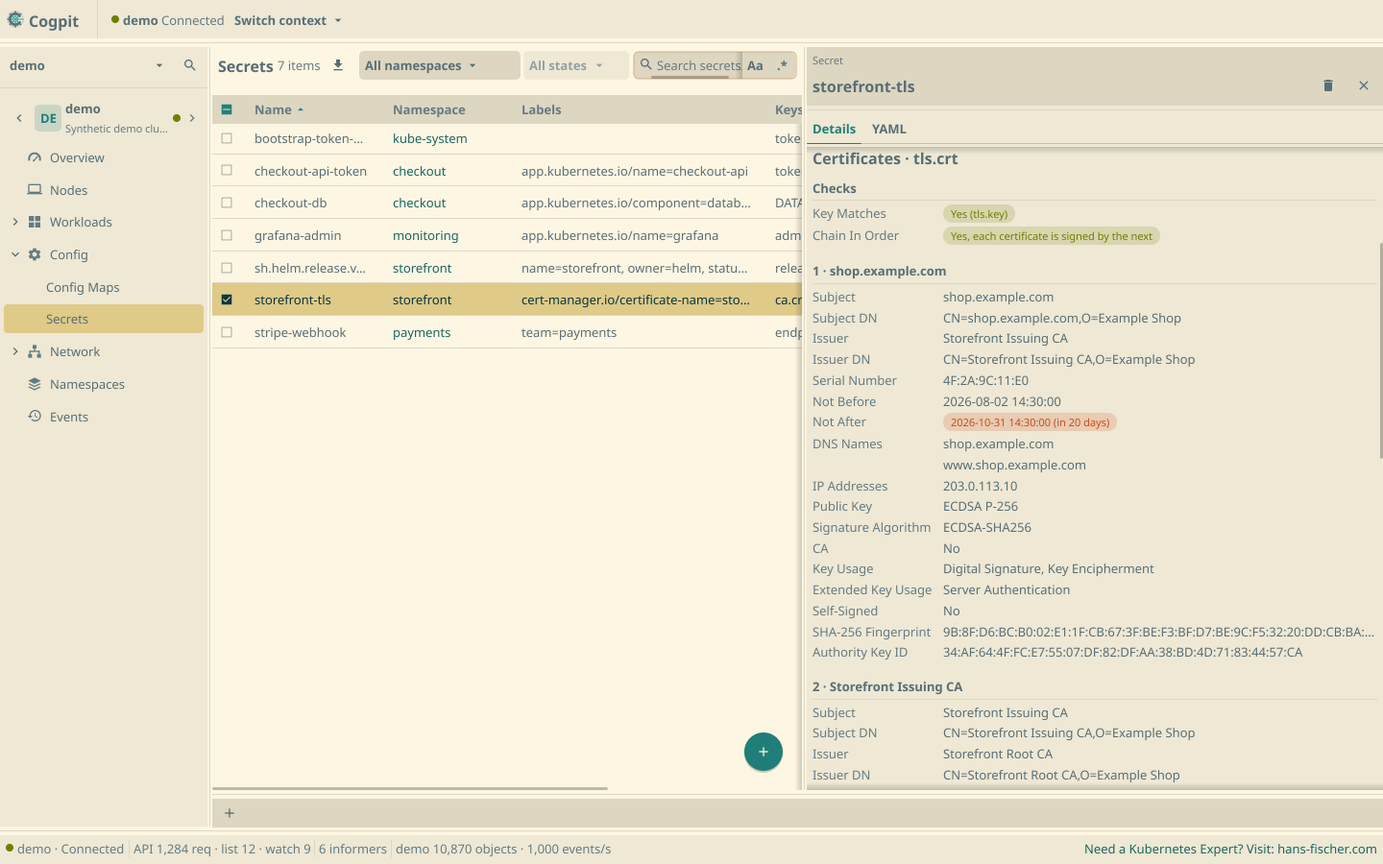
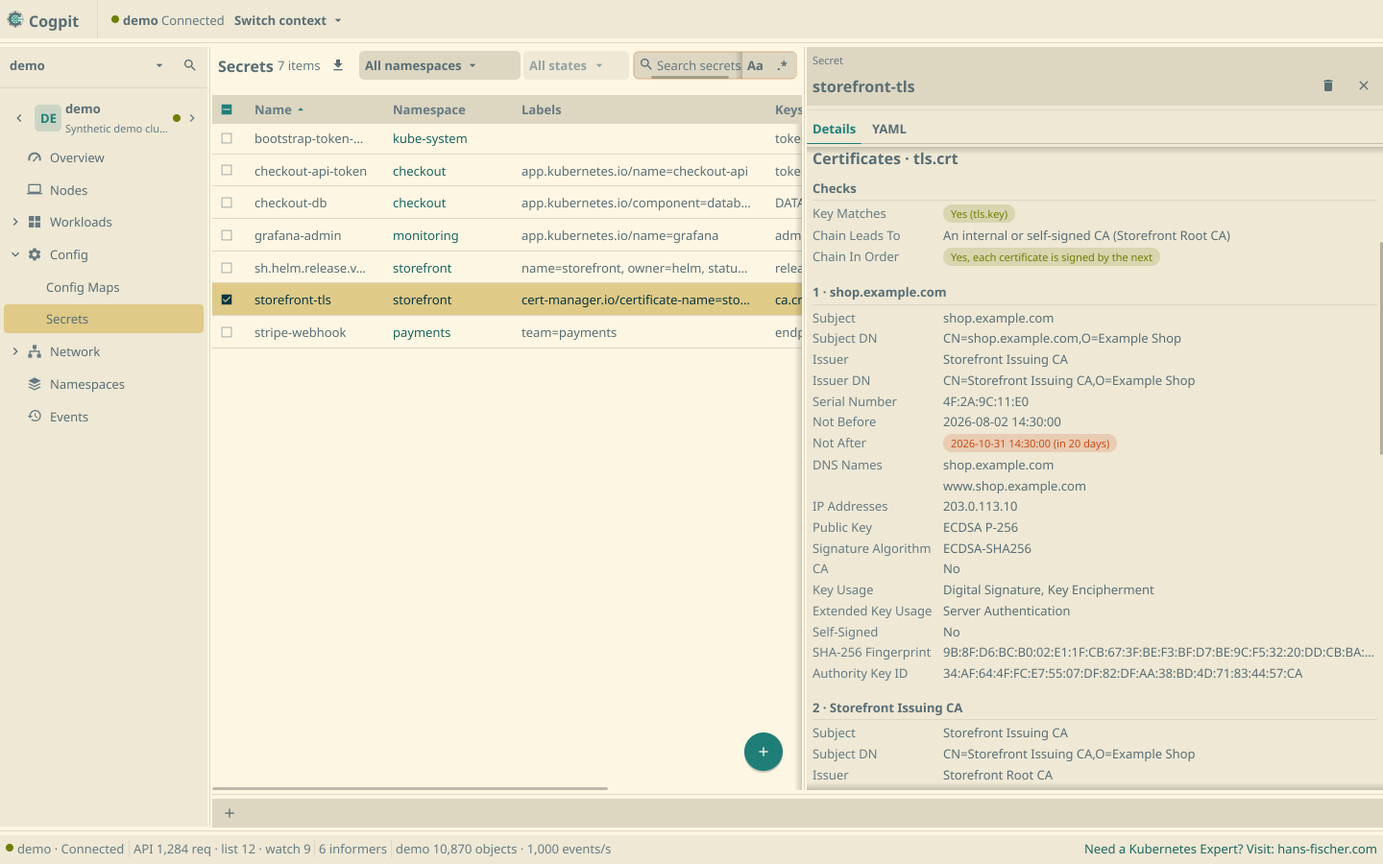
feat(engine): a certificate chain says which kind of CA it leads to (R1)
The owner's requirement of 2026-10-14 evening, built with the lead's design:
a checked chain's Checks section and agents' anchor say "a public CA" (a
root of Mozilla's NSS program, the x509roots bundle embedded in Cogpit),
"a CA this Mac trusts, not a public one" (the computer's trust store), or
"an internal or self-signed CA", with the root's name.

Changed region(s): [[0.5938, 0.3422, 0.9688, 0.9022], [0.5938, 0.2489, 0.875, 0.4044], [0.5938, 0.8711, 0.625, 0.9022]]

diff --git a/internal/model/certanchor.go b/internal/model/certanchor.go
@@ -1,0 +1,105 @@
+package model
+
+import (
+	"crypto/x509"
+	"strings"
+	"sync"
+
+	"golang.org/x/crypto/x509roots/fallback/bundle"
+)
+
+// The kind of certificate authority a Secret's certificate chain leads to (the owner's R1 of
+// 2026-10-14 evening; the lead's design, a night decision for the owner to confirm): a public CA
+// (a root of Mozilla's NSS root program, the bundle golang.org/x/crypto/x509roots ships, embedded
+// in Cogpit and independent of the computer), one this computer trusts (its trust store: a
+// corporate root installed on the Mac counts here, not as public), or an internal or self-signed
+// one. The chain is judged as the value holds it: the first certificate, the value's others as
+// intermediates; at a time inside the first certificate's validity, so that an expired certificate
+// still names its anchor. Pure but for the system pool the caller passes.
+
+// Anchor kinds (CertAnchor.Kind).
+const (
+	AnchorPublic   = "public"   // a root of the public root program
+	AnchorSystem   = "system"   // a root this computer trusts, not a public one
+	AnchorInternal = "internal" // neither: an internal CA or a self-signed certificate
+)
+
+// CertAnchor is where a chain leads: its kind and the root's name (its common name, else its
+// subject).
+type CertAnchor struct {
+	Kind string `json:"kind"`
+	Root string `json:"root,omitempty"`
+}
+
+var (
+	publicRootsOnce sync.Once
+	publicRoots     *x509.CertPool
+)
+
+// PublicRoots is the public root program's pool (NSS, through x509roots), built once.
+func PublicRoots() *x509.CertPool {
+	publicRootsOnce.Do(func() {
+		pool := x509.NewCertPool()
+		for r := range bundle.Roots() {
+			c, err := x509.ParseCertificate(r.Certificate)
+			if err != nil {
+				continue
+			}
+			pool.AddCertWithConstraint(c, r.Constraint)
+		}
+		publicRoots = pool
+	})
+	return publicRoots
+}
+
+// Anchor classifies where the value's chain leads (CertAnchor); ok is false for a value without a
+// valid first certificate. system is the computer's trust store; nil skips that step.
+func (d DecodedValue) Anchor(system *x509.CertPool) (CertAnchor, bool) {
+	if !d.HasLeaf() {
+		return CertAnchor{}, false
+	}
+	leaf := d.parsed[0]
+	inter := x509.NewCertPool()
+	for _, c := range d.parsed[1:] {
+		if c != nil {
+			inter.AddCert(c)
+		}
+	}
+	at := leaf.NotBefore.Add(leaf.NotAfter.Sub(leaf.NotBefore) / 2)
+	verify := func(roots *x509.CertPool) (string, bool) {
+		if roots == nil {
+			return "", false
+		}
+		chains, err := leaf.Verify(x509.VerifyOptions{Roots: roots, Intermediates: inter, CurrentTime: at,
+			KeyUsages: []x509.ExtKeyUsage{x509.ExtKeyUsageAny}})
+		if err != nil || len(chains) == 0 || len(chains[0]) == 0 {
+			return "", false
+		}
+		return certName(chains[0][len(chains[0])-1]), true
+	}
+	if root, ok := verify(PublicRoots()); ok {
+		return CertAnchor{Kind: AnchorPublic, Root: root}, true
+	}
+	if root, ok := verify(system); ok {
+		return CertAnchor{Kind: AnchorSystem, Root: root}, true
+	}
+	top := leaf
+	for _, c := range d.parsed[1:] {
+		if c != nil {
+			top = c
+		}
+	}
+	root := strings.TrimSpace(top.Issuer.CommonName)
+	if root == "" {
+		root = top.Issuer.String()
+	}
+	return CertAnchor{Kind: AnchorInternal, Root: root}, true
+}
+
+// certName is a certificate's common name, else its subject.
+func certName(c *x509.Certificate) string {
+	if n := strings.TrimSpace(c.Subject.CommonName); n != "" {
+		return n
+	}
+	return c.Subject.String()
+}

diff --git a/internal/model/certanchor_test.go b/internal/model/certanchor_test.go
@@ -1,0 +1,56 @@
+package model_test
+
+import (
+	"crypto/x509"
+	"encoding/pem"
+	"testing"
+
+	"golang.org/x/crypto/x509roots/fallback/bundle"
+
+	"github.com/guided-traffic/cogpit/internal/model"
+	"github.com/guided-traffic/cogpit/internal/testkit"
+)
+
+// TestCertAnchor (R1): a chain to a root of the public program is public, whatever the computer
+// trusts; one to a root only the computer's pool holds is the computer's; any other is internal,
+// named by the top certificate's issuer.
+func TestCertAnchor(t *testing.T) {
+	var public *x509.Certificate
+	for r := range bundle.Roots() {
+		if r.Constraint != nil {
+			continue
+		}
+		if c, err := x509.ParseCertificate(r.Certificate); err == nil {
+			public = c
+			break
+		}
+	}
+	if public == nil {
+		t.Fatal("no public root in the bundle")
+	}
+	pemOf := func(der []byte) []byte { return pem.EncodeToMemory(&pem.Block{Type: "CERTIFICATE", Bytes: der}) }
+	a, ok := model.DecodeCertificates(pemOf(public.Raw), 10).Anchor(nil)
+	if !ok || a.Kind != model.AnchorPublic || (a.Root != public.Subject.CommonName && a.Root != public.Subject.String()) {
+		t.Errorf("a public root: %+v, %v", a, ok)
+	}
+
+	ca := testkit.NewCert(t, testkit.CertSpec{CommonName: "Corp Root", CA: true})
+	inter := testkit.NewCert(t, testkit.CertSpec{CommonName: "Corp Issuing", CA: true, Parent: ca})
+	leaf := testkit.NewCert(t, testkit.CertSpec{CommonName: "web.corp", Parent: inter})
+	chain := testkit.Chain(leaf, inter)
+	if a, ok := model.DecodeCertificates(chain, 10).Anchor(nil); !ok || a.Kind != model.AnchorInternal || a.Root != "Corp Root" {
+		t.Errorf("an internal chain: %+v, %v", a, ok)
+	}
+	system := x509.NewCertPool()
+	system.AddCert(ca.Cert)
+	if a, ok := model.DecodeCertificates(chain, 10).Anchor(system); !ok || a.Kind != model.AnchorSystem || a.Root != "Corp Root" {
+		t.Errorf("a chain to a root the computer trusts: %+v, %v", a, ok)
+	}
+	self := testkit.NewCert(t, testkit.CertSpec{CommonName: "self.example"})
+	if a, ok := model.DecodeCertificates(testkit.Chain(self), 10).Anchor(system); !ok || a.Kind != model.AnchorInternal || a.Root != "self.example" {
+		t.Errorf("a self-signed certificate: %+v, %v", a, ok)
+	}
+	if _, ok := model.DecodeCertificates([]byte("no certificate"), 10).Anchor(nil); ok {
+		t.Error("a value without a certificate has an anchor")
+	}
+}

diff --git a/internal/engine/secretcerts_checks.go b/internal/engine/secretcerts_checks.go
@@ -1,8 +1,11 @@
 package engine
 
 import (
+	"crypto/x509"
 	"encoding/base64"
+	"runtime"
 	"strconv"
+	"sync"
 
 	"github.com/guided-traffic/cogpit/internal/model"
 )
@@ -18,7 +21,28 @@ const (
 	certChecksTitle = "Checks"
 	keyMatchItem    = "Key Matches"
 	chainItem       = "Chain In Order"
+	anchorItem      = "Chain Leads To"
 )
+
+var (
+	systemRootsOnce sync.Once
+	systemRootsPool *x509.CertPool
+)
+
+// thisComputer names the computer in the anchor's text.
+func thisComputer() string {
+	if runtime.GOOS == "darwin" {
+		return "this Mac"
+	}
+	return "this computer"
+}
+
+// systemRoots is the computer's trust store, read once (nil where it cannot be read: the anchor
+// then never says "trusted on this computer").
+func systemRoots() *x509.CertPool {
+	systemRootsOnce.Do(func() { systemRootsPool, _ = x509.SystemCertPool() })
+	return systemRootsPool
+}
 
 // certificateChecks sets, on each key with certificates, the private key it pairs with and
 // whether that key matches (pairedKey), and whether its chain is in order. The chain is checked
@@ -43,6 +67,9 @@ func certificateChecks(keys []model.CertificateKey, decoded map[string]model.Dec
 		}
 		leaf := len(ck.Certificates) > 0 && !ck.Certificates[0].Invalid && !ck.Certificates[0].IsCA
 		if ck.PairedKey != "" || leaf {
+			if a, ok := d.Anchor(systemRoots()); ok { // R1: a chain's anchor, not a CA bundle's
+				ck.Anchor = &a
+			}
 			if inOrder, checked, broken := d.ChainInOrder(); checked {
 				ck.ChainInOrder, ck.ChainBreak = &inOrder, broken
 			}
@@ -131,6 +158,18 @@ func certChecksSection(ck model.CertificateKey, group string) (model.DetailSecti
 			it.Value, it.Status = "Yes ("+where+")", model.StatusOK
 		default:
 			it.Value, it.Status = "No ("+where+" holds another key)", model.StatusError
+		}
+		items = append(items, it)
+	}
+	if a := ck.Anchor; a != nil {
+		it := model.DetailItem{Name: anchorItem}
+		switch a.Kind {
+		case model.AnchorPublic:
+			it.Value, it.Status = "A public CA ("+a.Root+")", model.StatusOK
+		case model.AnchorSystem:
+			it.Value, it.Status = "A CA "+thisComputer()+" trusts, not a public one ("+a.Root+")", model.StatusOK
+		default:
+			it.Value = "An internal or self-signed CA (" + a.Root + ")"
 		}
 		items = append(items, it)
 	}

diff --git a/internal/engine/secretcerts_checks_test.go b/internal/engine/secretcerts_checks_test.go
@@ -235,3 +235,21 @@ func TestSecretCombinedPEMKeyCheck(t *testing.T) {
 		t.Errorf("a value without a key got a key check: %+v", checks)
 	}
 }
+
+// A checked chain says where it leads (R1): a chain to an internal CA names it, in the Checks
+// section and for agents.
+func TestSecretChainAnchor(t *testing.T) {
+	ca := testkit.NewCert(t, testkit.CertSpec{CommonName: "Corp Root", CA: true, Key: testkit.Ed25519Key(t)})
+	leaf := testkit.NewCert(t, testkit.CertSpec{CommonName: "web", Parent: ca, Key: testkit.ECDSAKey(t)})
+	m := certDetail(t, secretOf("anchor", tlsSecretType, map[string][]byte{"tls.crt": testkit.Chain(leaf, ca), "tls.key": leaf.KeyPEM(t)}))
+	checks, ok := checkSections(m)["tls.crt"]
+	if !ok {
+		t.Fatalf("no Checks section: %+v", m.Sections)
+	}
+	if it := itemOf(checks, anchorItem); it.Value != "An internal or self-signed CA (Corp Root)" {
+		t.Errorf("anchor %+v", it)
+	}
+	if a := m.Certificates[0].Anchor; a == nil || a.Kind != model.AnchorInternal || a.Root != "Corp Root" {
+		t.Errorf("for agents %+v", a)
+	}
+}

diff --git a/internal/model/certs.go b/internal/model/certs.go
@@ -139,6 +139,9 @@ type CertificateKey struct {
 	// false, the position (from 1) of the first certificate the next one did not sign.
 	ChainInOrder *bool `json:"chainInOrder,omitempty"`
 	ChainBreak   int   `json:"chainBreak,omitempty"`
+	// Anchor is where the chain leads: a public CA, one this computer trusts, or an internal or
+	// self-signed one (R1, certanchor.go); absent for a value without a valid first certificate.
+	Anchor *CertAnchor `json:"anchor,omitempty"`
 }
 
 // HoldsCertificate reports whether a value holds a PEM CERTIFICATE block, without decoding it.

diff --git a/docs/parity/beyond-lens.md b/docs/parity/beyond-lens.md
@@ -7,10 +7,10 @@ targets, decided by the owner; they do not count toward the parity numbers in
 [`target-app-parity.md`](target-app-parity.md), which measure Cogpit against Lens. Method:
 [`README.md`](README.md).
 
-**Summary (measured, 2026-10-14):** 39 of 43 rows exist: 33 done and 6 partial, in MCP control (all 17 done), the built-in agent (2026-10-14 night, its engine side, the window's chat column and the private connection's reads: 9 done, 1 partial: the keychain on Windows and Linux), updates (Sparkle's one-click update and the signed update manifest, partial: no update key yet),
+**Summary (measured, 2026-10-14):** 40 of 43 rows exist: 34 done and 6 partial, in MCP control (all 17 done), the built-in agent (2026-10-14 night, its engine side, the window's chat column and the private connection's reads: 9 done, 1 partial: the keychain on Windows and Linux), updates (Sparkle's one-click update and the signed update manifest, partial: no update key yet),
 cache transparency, crash recovery (the unfinished drain, unsaved editor text), everyday use (the status bar link,
-copying from the lists, the certificates in Secrets and the status filter done, copying from the drawer partial; two rows the
-owner required on 2026-10-14 evening missing: which kind of CA a certificate's chain leads to, and a hotbar tile dragged
+copying from the lists, the certificates in Secrets, which kind of CA their chain leads to (2026-10-14 night) and the status
+filter done, copying from the drawer partial; a row the owner required on 2026-10-14 evening missing: a hotbar tile dragged
 out of the window opening another window) and the command line (`cogpit-cli contexts` done, `get`
 partial). Remaining (estimated): 0–2 h for MCP control
 ([G17](gaps.md#g17-mcp-control), the owner's answer to D-44), 20–40 h for the built-in agent
@@ -101,7 +101,7 @@ The owner's requirements of 2026-10-12, 2026-10-13 and 2026-10-14 that Lens Desk
 | Every value in the detail drawer can be selected, and has a copy icon on hover; an entry of a value with several entries is copied in YAML syntax; a Secret's value only once revealed, and the clipboard cleared after 60 seconds ([D-25](../developer/decisions.md#d-25-copying-values)) | partial (2026-10-12): text lines (names, values, table cells, titles, events), event messages and revealed Secret values select by drag or double click and copy with ⌘C or Ctrl+C; every value, table cell and chip shows a copy icon on hover, a padding after what it draws (2026-10-13, the owner in a real window: a status pill's icon sat at the drawer's right edge), at the value's end with its text shortened with "…" before it when the text leaves no room, before a value's action buttons; entries of labels, annotations and other lists copy as `key: value` or a YAML scalar; every chip owns the room between itself and its icon, so the pointer reaches the icon of a label chip, the last chip of a row and a wrapped one; after a copy the icon is a checkmark for 1.5 s (2026-10-12); a masked Secret value has no icon, a revealed one copies and the clipboard is cleared after 60 seconds if it still holds it, a later copy cancels that, closing the window clears at once; no command. Not drag-selectable: links, chips and status pills (the icon copies them); a selection stays within one line. Decided (owner, 2026-10-14 evening): Forward… sits right after the value as before, the copy icon appears over the value's end on hover; not built. Confirmed (owner, 2026-10-14 evening): links, chips and pills are not drag-selectable, the icon copies them. | [`selection.go`](../../internal/ui/fyneui/selection.go), [`copy.go`](../../internal/ui/fyneui/copy.go); `TestDrawerCopyIconOnHover`, `TestDrawerCopiesEntriesInYAML`, `TestCopyIconReachableOnLabelChips`, `TestCopyIconReachableOnWrappedChips`, `TestCopyIconTurnsIntoACheckmark`, `TestDrawerCopyIconAfterThePill`, `TestDrawerCopyIconAfterTheText`, `TestDrawerCopyIconAfterTheMessage`, `TestDrawerCopyIconInAnActionRow`, `TestYAMLEntry`, `TestDrawerTextIsSelectable`, `TestDrawerLongNamesSelectUnderTheEllipsis`, `TestSecretValueCopyOnlyOnceRevealed`, `TestSecretClipboardKeepsWhatReplacedIt`, `TestSecretTextSelectionCopiesAsASecret`, `TestCopyHasNoCommand` ([H-25](../security/credentials.md#h-25-a-copied-secret-value-reaches-the-clipboard)) |
 | Names in the lists (Pods, Deployments and every other view) are copyable: a list's cells get the drawer's copy icon on hover, at least the Name column's, with the same checkmark after a copy (owner, 2026-10-13, [D-25](../developer/decisions.md#d-25-copying-values)) | done (2026-10-13): in every list (one table for all views), one copy icon, the drawer's, on the cell under the pointer; a click copies the cell's full text (not the text shortened with "…"), turns the icon into the checkmark for 1.5 s and shows the drawer's toast, a plain copy, no command and no audit line. The owner after seeing it (2026-10-13): not on Age, CPU, Memory, Restarts and the like, by a blacklist so that custom resource columns keep it, and right after the text: built, the blacklist one place (`copyColumn`: number, age, until, metric and warning columns, a custom resource's integer, number and date printer columns, and the text ids of state words, booleans, counts and policy words listed in [D-25](../developer/decisions.md#d-25-copying-values), Cogpit's reading of the owner's principle); the icon a padding after the text, at the cell's end when the text leaves no room (then the text is shortened with "…" before it), never over the next column. Cogpit's defaults, not the owner's decision: none on the checkbox, the ⋮, the warning triangle, container squares, empty cells and `-`, `–`, `<none>`; the click neither selects the row, toggles its checkbox nor opens the drawer, a right-click on the icon opens the row's actions menu as elsewhere on the row; a Secret's list holds no values (Name, Namespace, Labels, the keys' names, Type, Age), so no copy from it carries one. Not tried in a real window. Decided (owner, 2026-10-14 evening): the copy icon lies over the cell's end and the text is no longer shortened for it; not built. Confirmed (owner, 2026-10-14 evening), now the owner's decisions: a checkmark and a toast on each copy; the exclusion list as built, for custom resource columns too. | [`tablecopy.go`](../../internal/ui/fyneui/tablecopy.go), [`copy.go`](../../internal/ui/fyneui/copy.go); `TestListCopyIconByColumn`, `TestCopyColumns`, `TestListCopyIconAfterTheText`, `TestListCopyIconOnHover`, `TestListCopyIconPlaceholders`, `TestListCopyIconCopiesTheFullText`, `TestListCopyIconFollowsTheCells`, `TestSecretsListCopiesNoValue`, `TestListCopyIconHasNoCommand`, `TestCopyHasNoCommand`; PNG [hover dark](../../internal/ui/fyneui/testdata/list_copy_hover_dark.png), [hover light](../../internal/ui/fyneui/testdata/list_copy_hover_light.png), [checkmark dark](../../internal/ui/fyneui/testdata/list_copy_done_dark.png), [checkmark light](../../internal/ui/fyneui/testdata/list_copy_done_light.png) |
 | Certificates in Secrets decoded, in the drawer and for agents: for every key that holds a PEM certificate, each certificate's information in separate fields, which an agent reads too (owner, 2026-10-13, [D-30](../developer/decisions.md#d-30-certificates-in-secrets-decoded)) | done (2026-10-13): after the Data section a group "Certificates · <key>" per key (`tls.crt` and `ca.crt` first, any Secret type), one section per certificate in the value's order titled by its common name, each field its own value with the drawer's copy icon: Subject and Subject DN, Issuer and Issuer DN, Serial Number, Not Before, Not After (the time left or "expired N days ago", OK, warning at 30 days or fewer, error when expired or not yet valid), DNS Names, IP Addresses, URIs, E-mail Addresses, Public Key, Signature Algorithm, CA with path length, Key Usage, Extended Key Usage, Self-Signed, SHA-256 Fingerprint, Subject and Authority Key ID; times in the Preferences' zone; `object_get` carries the same fields as `certificates` with RFC 3339 UTC times, `expiresInDays` and `expired`, never the PEM text, a value or a private key. The owner's answers of 2026-10-13, built the same day: agents and the built-in agent's endpoint read the certificates (decided, no longer a gap); DER certificates decoded like PEM ones; a Checks section per group, "Key Matches" (`tls.key` parsed in memory and compared with `tls.crt`'s first certificate: Yes, No as an error, or "Key not readable" with the reason; `keyMatches` for agents) and "Chain In Order" (each certificate signed by the next). Cogpit's defaults, not the owner's decision: which keys, the bounds (1 MiB per value, 16 certificates per key, 64 per Secret, 64 KiB per private key), the thresholds, the layout, which keys pair (`<base>.crt` with `<base>.key` or `<base>-key.pem`, else the one certificate key with the one private key), the chain check and when it runs. Not done: a trust store, revocation, encrypted keys. Nothing from Lens, which has no such section. Decided (owner, 2026-10-14 evening) and built that night: a combined PEM (certificate and key in one value) gets the key check too ("Yes (in this value)"); an encrypted private key in the warning colour, "Encrypted key: TLS and Ingress cannot use it". Which kind of CA the chain leads to: the next row. | [`engine/secretcerts.go`](../../internal/engine/secretcerts.go), [`engine/secretcerts_checks.go`](../../internal/engine/secretcerts_checks.go), [`model/certs.go`](../../internal/model/certs.go), [`model/keymatch.go`](../../internal/model/keymatch.go); `TestParseCertificatesChain`, `TestParseCertificatesOnlyCertificateBlocks`, `TestCertificateEvaluate`, `TestSecretCertificateSections`, `TestSecretCertificateStatusesAndBounds`, `TestSecretCertificateEdges`, `TestObjectGetDecodesCertificatesForAgents`, `TestSecretDrawerShowsCertificates`, `TestMatchPrivateKeyPairs`, `TestMatchPrivateKeyReasons`, `TestChainInOrder`, `TestDecodeDERCertificates`, `TestSecretKeyMatchesCertificate`, `TestSecretCertificatePairingAndChain`, `TestSecretDERCertificates`, on kind `TestKindSecretCertificates`; PNG [dark](../../internal/ui/fyneui/testdata/secret_certs_dark.png), [light](../../internal/ui/fyneui/testdata/secret_certs_light.png) |
-| Certificates in Secrets: whether the chain leads to a public CA, to a CA this Mac trusts (a corporate root counts here) or to an internal or self-signed one, clear at a glance with the root's name, in the drawer and for agents (owner, 2026-10-14 evening) | missing: required (owner, 2026-10-14 evening); not built. The design is settled when it is built; the lead's notes, not decided: "public" chains to a root of a public root program (Mozilla's bundle through `golang.org/x/crypto/x509roots/fallback`, independent of the Mac), "trusted on this Mac" to the system keychain, "internal" to no known root; agents read it as the other fields ([D-30](../developer/decisions.md#d-30-certificates-in-secrets-decoded): certificates are public material) | – |
+| Certificates in Secrets: whether the chain leads to a public CA, to a CA this Mac trusts (a corporate root counts here) or to an internal or self-signed one, clear at a glance with the root's name, in the drawer and for agents (owner, 2026-10-14 evening) | done (2026-10-14 night, the lead's design for the owner to confirm, [D-30](../developer/decisions.md#d-30-certificates-in-secrets-decoded)): the Checks section's "Chain Leads To" for a checked chain (a leaf, or a value with its key): "A public CA (<root>)" for a root of Mozilla's NSS program (the bundle of `golang.org/x/crypto/x509roots`, embedded, the same on every computer), "A CA this Mac trusts, not a public one (<root>)" for the computer's trust store, "An internal or self-signed CA (<the top certificate's issuer>)" otherwise; judged at the middle of the first certificate's validity, so an expired certificate still names its anchor; agents read `anchor` (kind, root). Not tried in a real window | [`model/certanchor.go`](../../internal/model/certanchor.go), [`engine/secretcerts_checks.go`](../../internal/engine/secretcerts_checks.go); `TestCertAnchor`, `TestSecretChainAnchor`; [PNG](../../internal/ui/fyneui/testdata/secret_certs_dark.png) |
 | A status filter in every view: the states the view's rows carry (Status, Not Ready, Degraded, …), several at once, cleared with one click, kept with the tab; a dashboard's state opens its kind's view filtered to it (owner, 2026-10-14, [D-34](../developer/decisions.md#d-34-the-flux-dashboard)) | done (2026-10-14): engine state per tab (`UIState.States`, kept in `workspace.json`), set with `ui.setStatusFilter` or `ui.openView` with `states`, shown in `ui_state`, applied to the view's snapshot like the search (the table, `view_rows`, select all, the CSV export) and by `resources_list`'s `states`; a row's states are its kind's state columns' texts (Status, State, Phase, Sync and Health whole, Conditions word by word; an event's Type, an autoscaler's condition types), qualified by the column in a kind with several (an Argo CD Application's "Sync: OutOfSync", "Health: Degraded", each column a condition of its own), else its status token by name (two decisions for the owner to confirm, D-34); the view offers the states the rows its namespace filter and search keep carry, with counts; in the window beside the namespace filter (on a page beside its table's search), a list of checks with each state's colour and count, a × that clears it; opening another view clears it, as the search; the Flux dashboard's state links and the Argo CD Dashboard's tiles (which used the search box) open the view filtered; 10,000 rows filtered in 2.9–3.7 ms, no request (`BenchmarkSnapshot10kStates`). Decided (owner, 2026-10-14 evening) and built that night: the filter's button in the accent colour while a filter is active. Confirmed (owner, 2026-10-14 evening): the rows' states from the kind's state columns with the tokens as fallback, every named state column matching (any of its states), the filter belonging to its view and tab. | [`model/states.go`](../../internal/model/states.go), [`engine/statusfilter.go`](../../internal/engine/statusfilter.go), [`commands/statusfilter.go`](../../internal/engine/commands/statusfilter.go), [`fyneui/statusfilter.go`](../../internal/ui/fyneui/statusfilter.go); `TestStateMatcher`, `TestKindStates`, `TestStatusFilterSnapshot`, `TestStatusFilterBelongsToTheView`, `TestStatusFilterFluxPage`, `TestArgoTilesNameTheStatusFilter`, `TestWorkspaceKeepsTheStatusFilter`, `TestStatusFilterCommand`, `TestStatusFilterInTheHeader`, `TestStatusFilterOnAPage`, `TestFluxDashboardInTheWindow`, `TestArgoDashboardPanel`; PNGs [list](../../internal/ui/fyneui/testdata/status_filter_menu_dark.png), [filtered Pods](../../internal/ui/fyneui/testdata/status_filter_pods_light.png), [a Flux state clicked](../../internal/ui/fyneui/testdata/flux_state_filtered_dark.png) |
 | A link to the owner at the status bar's left end, opening hans-fischer.com in the browser on a click, a GUI link and not a command ([D-23](../developer/decisions.md#d-23-a-link-to-the-owner-in-the-status-bar)) | done (2026-10-12): "Need a Kubernetes Expert? Visit: hans-fischer.com", shown before connecting and when connected; a click opens `https://hans-fischer.com` and nothing is sent before; when the bar is too narrow the link is shortened and then hidden with its divider, and the status items keep their room | [`bars.go`](../../internal/ui/fyneui/bars.go) (`statusLayout`, `openOwnerLink`); `TestStatusBarOwnerLink`, `TestStatusBarOwnerLinkIsNoCommand`, `TestStatusBarOwnerLinkGivesWayFirst`; [PNG](../../internal/ui/fyneui/testdata/shell_dark.png) (the status bar's left end) |
 | Drag a hotbar tile out of the window and drop it to open that cluster in another Cogpit window (owner, 2026-10-14 evening) | missing: required (owner, 2026-10-14 evening); needs a design (a D-entry) before code: Cogpit is one window today, and a second touches the engine and UI seam (one UI state per window?), the window list, which window agents' UI tools drive, the workspace's persistence and Fyne's start-up stall per window (gate S1's reservation: 0.3–0.56 s, "avoid second windows", [G15](gaps.md#g15-performance-and-api-load-at-scale)); Lens's several windows: [ui parity › Appearance](ui-parity.md#appearance-and-application) | – |

diff --git a/docs/developer/decisions.md b/docs/developer/decisions.md
@@ -85,7 +85,7 @@ window. Nothing of it was built in the round.
 | A25 | #97, H-35 | kubectl's signature checked with sigstore-go, the Rekor transparency-log proof included; a record of its own; to build | [D-50](#d-50-kubectls-signature-check), [H-35](../security/trust-boundaries.md#h-35-kubectls-signature-is-checked-without-sigstores-transparency-log) |
 | A26 | #98, H-36 | The kubectl `PATH` hand-over for bash (`--rcfile` or `PROMPT_COMMAND`) and fish (`conf.d`), as for zsh; built 2026-10-14 | [D-3](#d-3-helm-and-kubectl-binaries), [H-36](../security/trust-boundaries.md#h-36-a-shells-profile-can-put-another-kubectl-first) |
 | A27 | #100, H-36 | A setting (Preferences › Kubernetes): the `ZDOTDIR` hand-over by default, switchable to enforcement through a shell alias or function `kubectl`; built 2026-10-14 | [D-3](#d-3-helm-and-kubectl-binaries), [H-36](../security/trust-boundaries.md#h-36-a-shells-profile-can-put-another-kubectl-first) |
-| R1 | – | Certificates: show whether the chain leads to a public or an internal (private) CA; the design settled when built; to build | [D-30](#d-30-certificates-in-secrets-decoded) |
+| R1 | – | Certificates: show whether the chain leads to a public or an internal (private) CA; the design settled when built; built 2026-10-14 (the lead's design for the owner to confirm) | [D-30](#d-30-certificates-in-secrets-decoded) |
 | A28 | #102, H-37 | Ask once per context before the first connect of an `insecure-skip-tls-verify` context, the answer kept like a plugin approval; to build | [H-37](../security/trust-boundaries.md#h-37-a-context-that-skips-the-certificate-check), [architecture §6](architecture.md#6-cluster-connections-internalcluster) |
 | A29 | #103, H-37 | While such a context is connected, the status bar shows "TLS not checked" in the warning colour beside the context; `cogpit-cli get` writes a warning line to stderr; to build | [H-37](../security/trust-boundaries.md#h-37-a-context-that-skips-the-certificate-check), [architecture §6](architecture.md#6-cluster-connections-internalcluster) |
 | A30 | #104 | Only the window chooses the configmap Helm driver; agents may only set it back to secret; as built | [D-29](#d-29-helm-chart-repositories-from-helms-repositoriesyaml) |
@@ -2060,14 +2060,20 @@ agent's `object_get`, its key matching and its chain in order); renders
   TLS/Ingress cannot use it". Built 2026-10-14: "Encrypted key: TLS and Ingress cannot use it
   (tls.key)", status warning.
 - **New requirement (R1):** besides the key check and the chain, show whether the chain leads to a
-  public CA or an internal (private) one, so that the kind of certificate is clear at a glance. Not
-  built yet; the design is settled when it is built. The lead's notes, not decided: "public" chains
-  to a root of a public root program (for example Mozilla's, through
-  `golang.org/x/crypto/x509roots/fallback`, the same on every computer), "trusted on this Mac" (the
-  system keychain, where a company's root counts), "internal or self-signed" (no known root); in
-  the drawer and for agents, certificates being public material (above); the root's name shown.
-  It ends the chain check's "no trust store" above, and the docs that say so
-  ([beyond Lens](../parity/beyond-lens.md), the certificates row) change with it.
+  public CA or an internal (private) one, so that the kind of certificate is clear at a glance.
+  Built 2026-10-14 night as **the lead's design, for the owner to confirm**
+  ([`model/certanchor.go`](../../internal/model/certanchor.go); `TestCertAnchor`,
+  `TestSecretChainAnchor`): three answers in the Checks section's "Chain Leads To" and for agents
+  (`anchor`: kind and root) — "public" chains to a root of Mozilla's NSS program (the bundle of
+  `golang.org/x/crypto/x509roots/fallback/bundle`, a new module, embedded and the same on every
+  computer; only the bundle package is imported, never `fallback`, which would change Go's
+  fallback roots for the whole process), "a CA this Mac trusts, not a public one" (the computer's
+  trust store, `x509.SystemCertPool`, where a company's root counts), "internal or self-signed"
+  (neither; named by the top certificate's issuer). Options weighed: the Mac's trust store alone
+  (a corporate root would read as public), the public bundle alone (no answer for a corporate
+  root). Judged for a checked chain only (a leaf, or a value with its key; a CA bundle gets none),
+  at the middle of the first certificate's validity, so that an expired certificate still names its
+  anchor; no revocation. The bundle moves with the module's version (Renovate).
 
 ## D-31: Every timestamp in the local time zone and format
 

diff --git a/ROADMAP.md b/ROADMAP.md
@@ -30,7 +30,7 @@ serial foundation, about 80% of the work parallelizes.
 | Remaining to **beta** (macOS, with the Flux CD and Argo CD views) | **~380–900 h** | estimated (was ~425–995) |
 | Remaining to **full parity** (free features, macOS) | **~360–920 h** | estimated (was ~420–1,040) |
 | Remaining to the **full Lens target** (paid features, Windows and Linux) | **~560–1,330 h** | estimated (was ~620–1,450) |
-| **Beyond Lens** (MCP control of UI and cluster, built-in agent) | **~3–12 h** | estimated (2026-10-14 night: the built-in agent's engine side and its chat column built, G21 re-estimated at 3–10 h; was ~20–42 h, before that ~50–110 h); not part of the parity numbers; 33 of 43 rows done, 6 partial (2026-10-14 night: the built-in agent, its engine side, its window and the private connection's reads, 9 rows done and 1 partial; 2026-10-14 evening: two rows the owner required, missing: the kind of CA a certificate's chain leads to, a hotbar tile dragged out to another window; before, 2026-10-14: Sparkle's one-click update and the signed update manifest built, partial until the owner's update key; a status filter in every view, the owner's D-34; every MCP row done after `dock_read`, the GUI-only mark and `kinds_list`; before, 2026-10-13: the CLI and its stdio bridge, view_rows, related objects, the agents allowance, the audit log and diagnostics in the window, editor drafts, names copyable in the lists, certificates in Secrets decoded) |
+| **Beyond Lens** (MCP control of UI and cluster, built-in agent) | **~3–12 h** | estimated (2026-10-14 night: the built-in agent's engine side and its chat column built, G21 re-estimated at 3–10 h; was ~20–42 h, before that ~50–110 h); not part of the parity numbers; 34 of 43 rows done, 6 partial (2026-10-14 night: the kind of CA a certificate's chain leads to, R1; 2026-10-14 night: the built-in agent, its engine side, its window and the private connection's reads, 9 rows done and 1 partial; 2026-10-14 evening: two rows the owner required, missing: the kind of CA a certificate's chain leads to, a hotbar tile dragged out to another window; before, 2026-10-14: Sparkle's one-click update and the signed update manifest built, partial until the owner's update key; a status filter in every view, the owner's D-34; every MCP row done after `dock_read`, the GUI-only mark and `kinds_list`; before, 2026-10-13: the CLI and its stdio bridge, view_rows, related objects, the agents allowance, the audit log and diagnostics in the window, editor drafts, names copyable in the lists, certificates in Secrets decoded) |
 
 ### Readiness by audience
 

diff --git a/docs/security/credentials.md b/docs/security/credentials.md
@@ -262,10 +262,10 @@ night:**
   (`model.HoldsPrivateKeyBlock`).
 - **The chain's anchor** (a new requirement): beside the key match and the chain's order, the
   drawer and agents say whether the chain leads to a public certificate authority or an internal
-  (private) one, with the root's name. Today Cogpit checks a chain's order only, against no trust
-  store (D-30). The design is not settled; the lead's notes name three answers: a root of a public
-  root program that Cogpit carries itself, independent of the Mac; a root this Mac trusts (its
-  keychain, a corporate root included); no known root (internal or self-signed). Certificates are
+  (private) one, with the root's name. Built 2026-10-14 night as the lead's design (D-30): a root of
+  a public root program that Cogpit carries itself (Mozilla's NSS bundle, independent of the Mac);
+  a root this Mac trusts (its trust store, a corporate root included); no known root (internal or
+  self-signed). Certificates are
   public material (D-30), so a root's name adds nothing secret about the cluster. What would be new
   for agents, and through the built-in agent for its LLM endpoint
   ([agents and MCP › H-13](agents-and-mcp.md#h-13-cluster-data-leaves-for-the-llm-endpoint)), is
